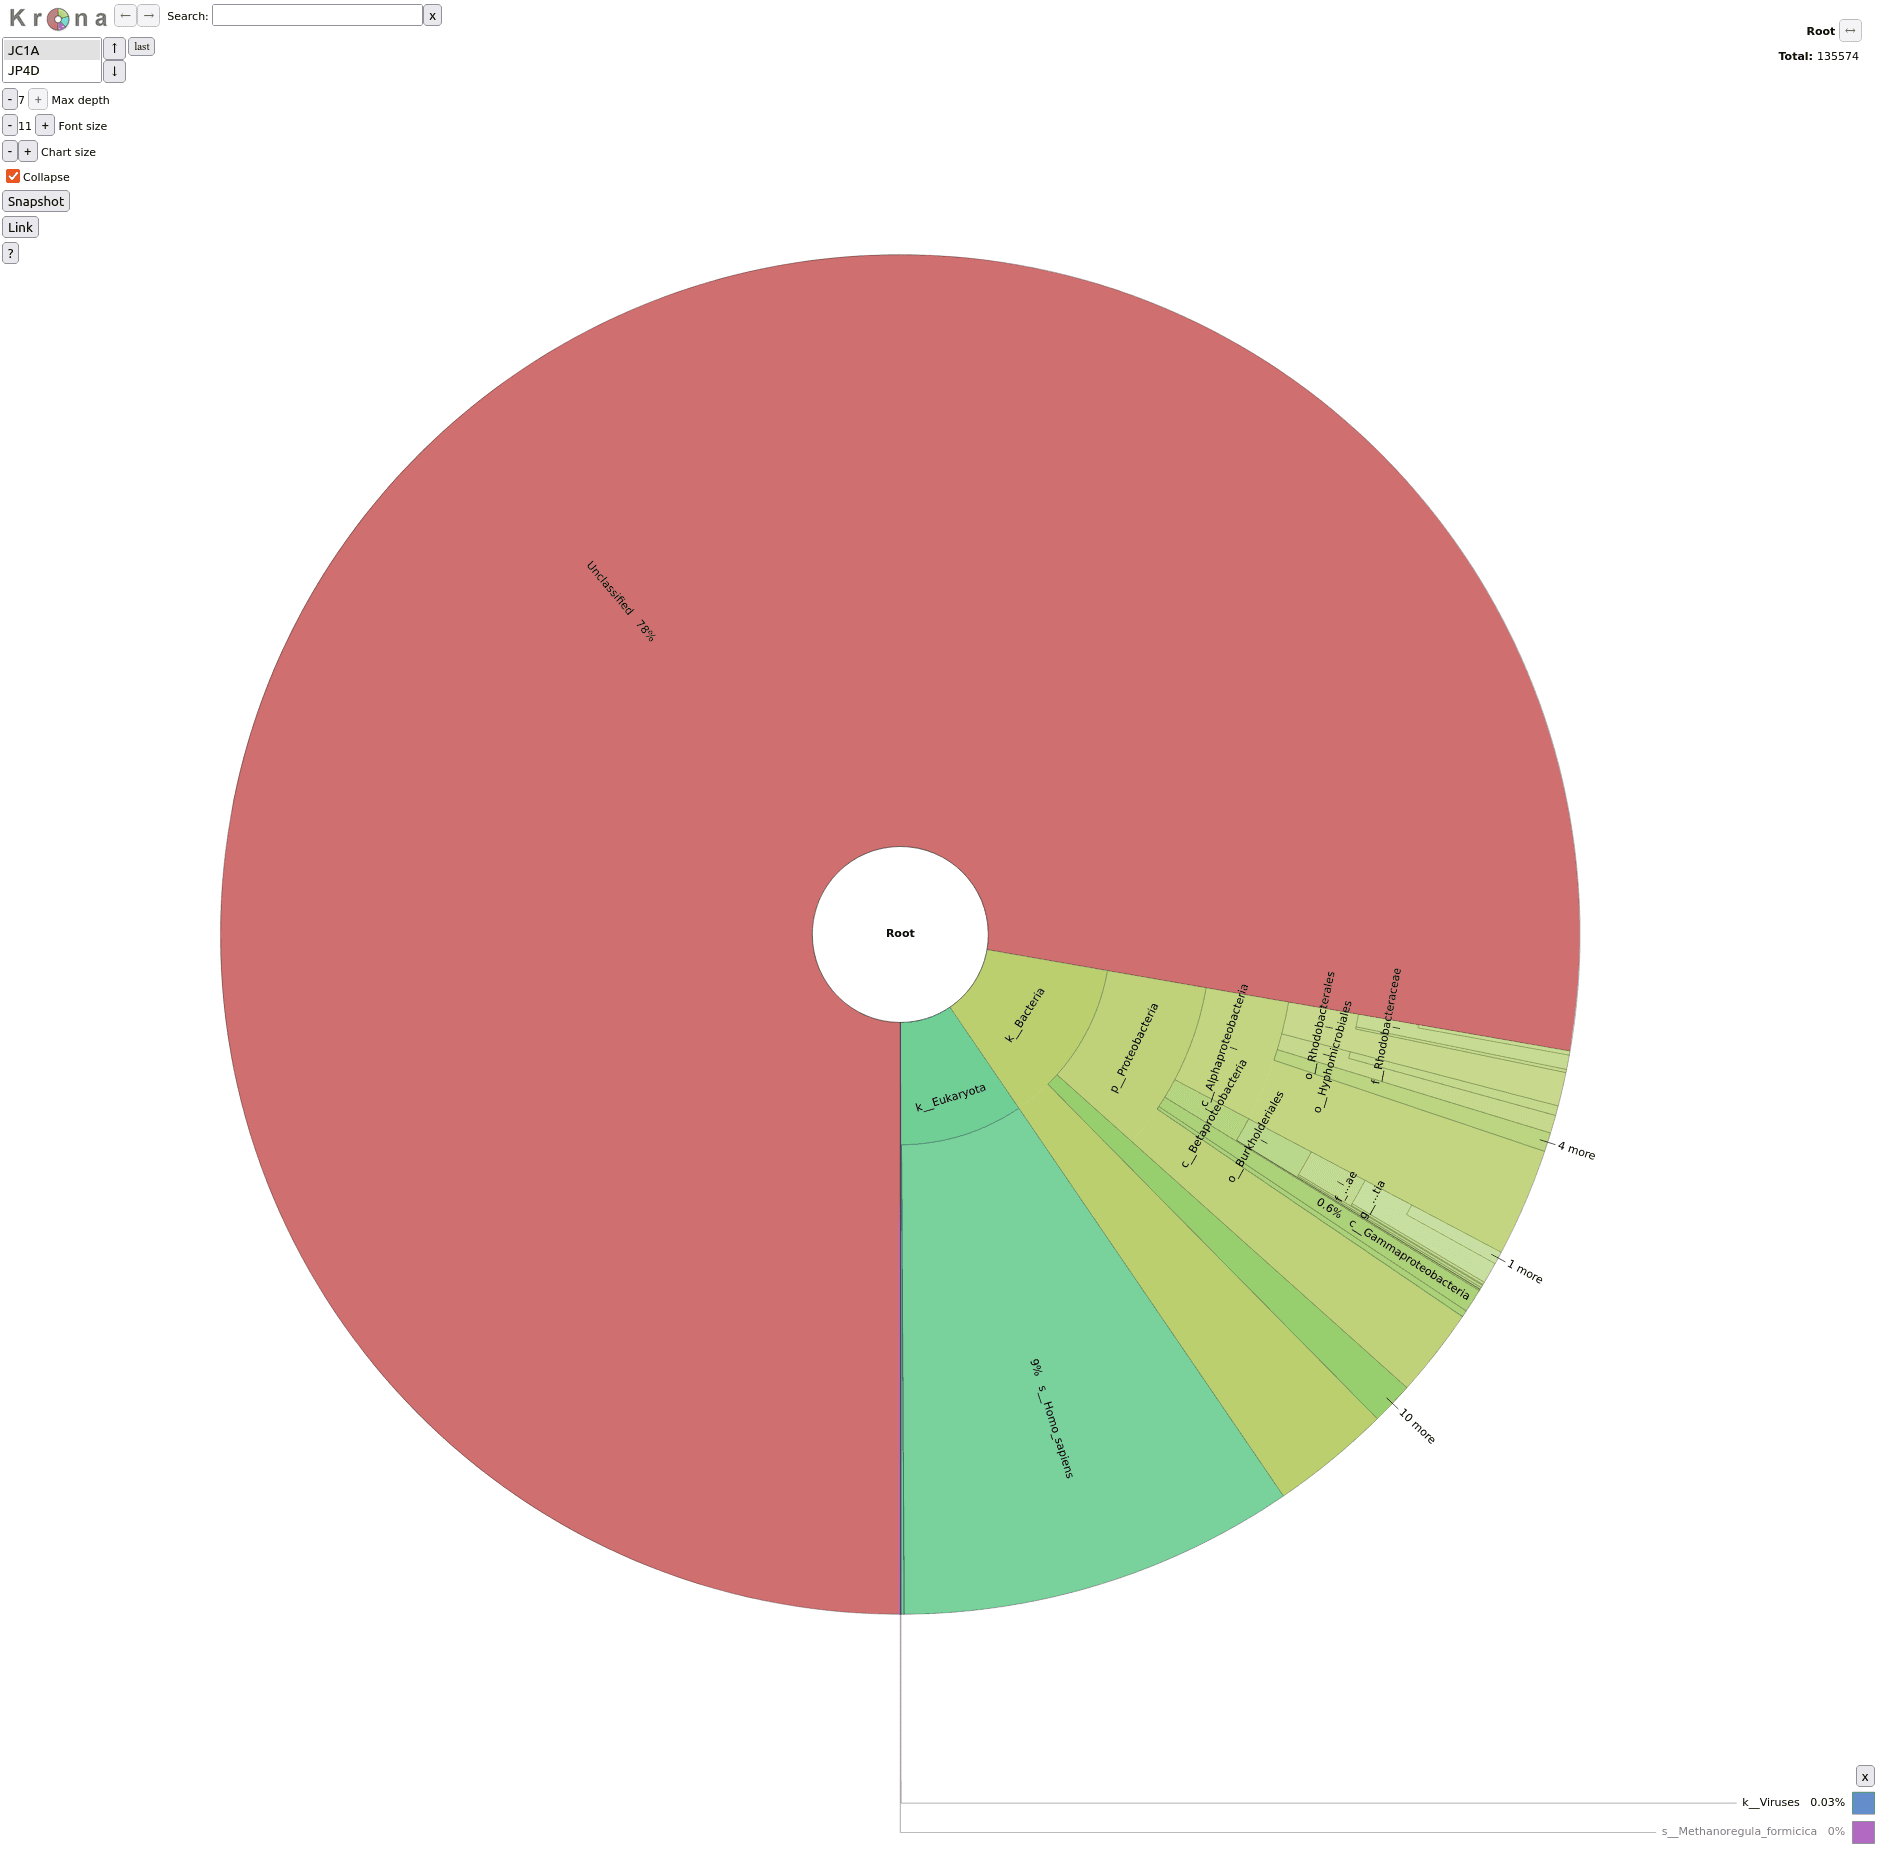
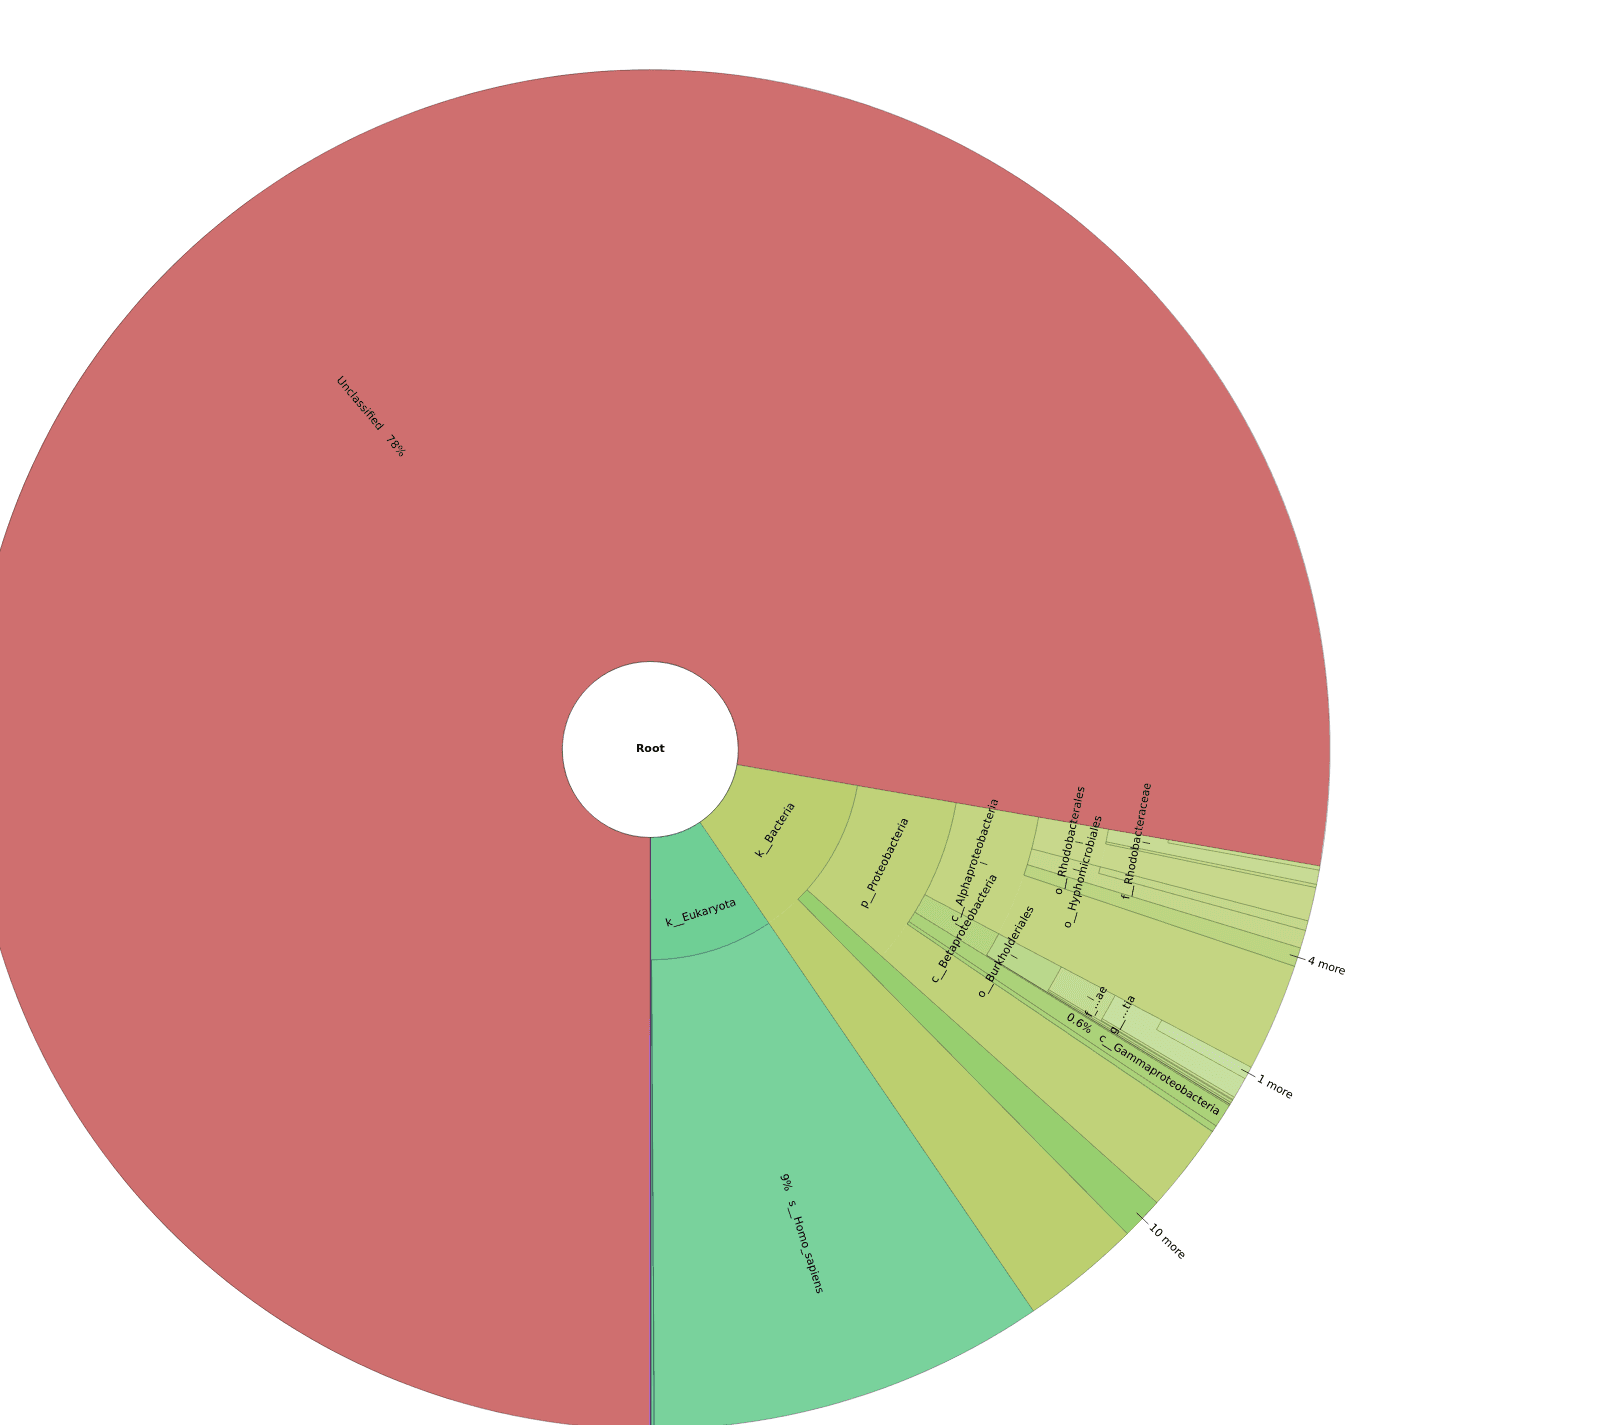
Polish deck images, beautify tables, add image credits
Image fitment: enlarge/clean the MinION hero (s15), MultiQC table (s23,
cropped to ~5 columns), mapping (s30), Krona (s56, cropped to the pie).
Replace weak images: s34 Bandage graph -> BUSCO completeness bars;
s63 empty Galaxy editor -> nf-core/rnaseq metro map.

Tables: brand.css table polish (rounded card, teal header, zebra rows,
tr.hi highlight, roomier). s25 Trimming tools + s46 count matrix converted
to styled HTML tables with the default/low-count row flagged.

Credits (both): a small per-image .src caption on every image slide, plus
a consolidated "Image credits" slide before the closer (deck now 66 slides).
Update slide-outline.md and images/CREDITS.md (drop the 2 removed images,
add BUSCO + nf-core). Render deck.html. Export folder untouched.

diff --git a/slides/theme/brand.css b/slides/theme/brand.css
@@ -93,18 +93,35 @@ blockquote {
 blockquote strong { color:var(--teal-ink); }
 
 /* ---- tables (scoped under `section` to beat the default theme) ---- */
-section table { border-collapse:collapse; font-size:20px; width:100%; table-layout:fixed; }
-section th, section td {
-  border:1px solid var(--surface-border); padding:8px 14px; text-align:left;
-  vertical-align:top; white-space:normal; overflow-wrap:anywhere; word-break:normal;
-  color:var(--fg);
+section table {
+  border-collapse:separate; border-spacing:0; font-size:22px; width:100%;
+  table-layout:fixed; border:1px solid var(--surface-border); border-radius:12px;
+  overflow:hidden; box-shadow:var(--shadow-card);
 }
+section th, section td {
+  border-bottom:1px solid var(--surface-border); padding:12px 18px; text-align:left;
+  vertical-align:middle; white-space:normal; overflow-wrap:anywhere; word-break:normal;
+  color:var(--fg); line-height:1.35;
+}
+section tr:last-child td { border-bottom:none; }
+/* zebra striping for readability */
+section tbody tr:nth-child(even) td { background:rgba(16,20,36,.035); }
+/* highlighted row (default tool / flagged matrix row) */
+section table tr.hi td { background:rgba(45,212,191,.16); font-weight:500; }
 section th {
-  font-family:var(--font-mono); text-transform:uppercase; letter-spacing:.05em;
-  color:var(--teal-ink); background:rgba(16,20,36,.03); font-weight:500; font-size:15px;
+  font-family:var(--font-mono); text-transform:uppercase; letter-spacing:.06em;
+  color:var(--teal-ink); background:rgba(13,148,136,.07); font-weight:600; font-size:15px;
+  border-bottom:2px solid rgba(13,148,136,.22);
 }
 /* let a leading narrow column (tool / module name) stay compact */
 section table th:first-child, section table td:first-child { width:26%; }
+
+/* ---- image source caption (tiny, muted, bottom-left margin) ---- */
+section .src {
+  position:absolute; left:72px; bottom:18px; margin:0;
+  font-family:var(--font-mono); font-size:13px; letter-spacing:.02em;
+  color:var(--muted); opacity:.85;
+}
 
 /* ---- pagination ---- */
 section::after { color:var(--muted); font-family:var(--font-mono); font-size:14px; }

diff --git a/slides/deck.md b/slides/deck.md
@@ -105,6 +105,8 @@ Design → QC → Preprocess → Core (ALIGN / ASSEMBLE) → Downstream → Inte
 ![bg right:34%](images/images_illumina/hires-miseqdx-right.jpg)
 ![bg right:34%](images/images_illumina/hires-miseq-flowcell-side.jpg)
 
+<p class="src">Illumina (vendor figures)</p>
+
 ## Illumina: the high-accuracy workhorse
 
 - Fragment → ligate P5/P7 adapters + index → bridge-amplify → **SBS** → FASTQ
@@ -118,6 +120,8 @@ Design → QC → Preprocess → Core (ALIGN / ASSEMBLE) → Downstream → Inte
 <p class="eyebrow">MODULE 0 · SBS WORKFLOW</p>
 
 ![bg right:50% fit](images/images_illumina/illumina-sbs-workflow.jpg)
+
+<p class="src">Illumina — SBS workflow</p>
 
 ## Illumina SBS: step by step
 
@@ -133,6 +137,8 @@ Design → QC → Preprocess → Core (ALIGN / ASSEMBLE) → Downstream → Inte
 <p class="eyebrow">MODULE 0 · SBS — STEP A IN DETAIL</p>
 
 ![bg right:38% fit](images/images_illumina/illumina-library-prep.jpg)
+
+<p class="src">Illumina</p>
 
 ## Library prep: adapters on every fragment
 
@@ -154,6 +160,8 @@ Design → QC → Preprocess → Core (ALIGN / ASSEMBLE) → Downstream → Inte
 
 ![bg right:30% fit](images/images_illumina/illumina-genotyping-workflow.jpg)
 
+<p class="src">Illumina — Infinium array</p>
+
 ## Illumina genotyping array: a different workflow
 
 - **BeadArray SNP genotyping — not SBS**
@@ -172,6 +180,8 @@ Design → QC → Preprocess → Core (ALIGN / ASSEMBLE) → Downstream → Inte
 
 ![bg right:36%](images/images_PacBio/pacbio-smrtcell.png)
 
+<p class="src">PacBio — SMRT Cell</p>
+
 ## PacBio HiFi: long AND accurate
 
 - Polymerase in a **ZMW** reads a circular **SMRTbell** template repeatedly → **CCS** → HiFi read
@@ -185,6 +195,8 @@ Design → QC → Preprocess → Core (ALIGN / ASSEMBLE) → Downstream → Inte
 <p class="eyebrow">MODULE 0 · HIFI IN PRACTICE</p>
 
 ![bg right:30% fit](images/images_PacBio/pacbio-revio-vega.png)
+
+<p class="src">PacBio — Revio / Vega</p>
 
 ## PacBio HiFi in practice: full-length 16S profiling
 
@@ -214,13 +226,15 @@ Design → QC → Preprocess → Core (ALIGN / ASSEMBLE) → Downstream → Inte
 
 <p class="eyebrow">MODULE 0 · ONT IN PRACTICE</p>
 
-![bg right:36% fit](images/images_MinION/minion-salmonella-hero.png)
+![bg right:38% fit](images/images_MinION/minion-salmonella-hero.png)
+
+<p class="src">Oxford Nanopore</p>
 
 ## MinION in practice: Salmonella colony → serotype same day
 
-- **Direct-from-colony**: pick colony → Rapid PCR Barcoding Kit (SQK-RPB114.24) → 24 barcoded samples → R10.4.1 flow cell
-- MinKNOW real-time HAC basecalling → EPI2ME `wf-bacterial-genomes` → Flye assembly + Medaka polish
-- Output: species ID + serotype + 7-gene MLST + AMR profile — **no DNA extraction required**
+- **Direct-from-colony**: colony → Rapid PCR Barcoding (SQK-RPB114.24) → 24 barcodes → R10.4.1 flow cell
+- MinKNOW real-time HAC basecalling → EPI2ME `wf-bacterial-genomes` → Flye + Medaka polish
+- Output: species ID + serotype + 7-gene MLST + AMR — **no DNA extraction**
 
 > This is the ASSEMBLE branch in action — the genome is reconstructed de novo.
 
@@ -299,6 +313,8 @@ Design → [QC] → [PREPROCESS] → Core → Downstream → Interpret → Repro
 
 ![bg right:42% fit](images/images_QC/FastQC_seq_qual.png)
 
+<p class="src">FastQC · Babraham Bioinformatics (GPL)</p>
+
 ## FastQC: the metrics that matter
 
 - Per-base quality · adapter content · overrepresented seqs · duplication · GC
@@ -309,7 +325,9 @@ Design → [QC] → [PREPROCESS] → Core → Downstream → Interpret → Repro
 
 ---
 
-![bg right:48% fit](images/images_QC/multiqc_overview.png)
+![bg right:52% fit](images/images_QC/multiqc_overview.png)
+
+<p class="src">MultiQC example report · GPLv3</p>
 
 ## MultiQC: aggregate & spot the outlier
 
@@ -323,6 +341,8 @@ Design → [QC] → [PREPROCESS] → Core → Downstream → Interpret → Repro
 <p class="eyebrow">MODULE 1 · LONG-READ QC</p>
 
 ![bg right:42% fit](images/gtn/nanoplot-readlength.png)
+
+<p class="src">Nanoplot · GTN, CC-BY 4.0</p>
 
 ## Long reads need different QC tools
 
@@ -338,13 +358,16 @@ Design → [QC] → [PREPROCESS] → Core → Downstream → Interpret → Repro
 
 ## Trimming tools
 
-| Tool | Role |
-|------|------|
-| **fastp** | **default** — all-in-one: adapters, quality, length + report |
-| **Trimmomatic** | explicit / legacy, fine control |
-| **cutadapt** | adapter / primer specialist |
+<table>
+<thead><tr><th>Tool</th><th>Role</th></tr></thead>
+<tbody>
+<tr class="hi"><td><strong>fastp</strong></td><td><strong>default</strong> — all-in-one: adapters, quality, length + its own report</td></tr>
+<tr><td><strong>Trimmomatic</strong></td><td>explicit / legacy, fine-grained control</td></tr>
+<tr><td><strong>cutadapt</strong></td><td>adapter / primer specialist</td></tr>
+</tbody>
+</table>
 
-<!-- fastp = one fast pass + its own report. Show the table; default to fastp. -->
+<!-- fastp = one fast pass + its own report. Show the table; default to fastp (the tinted row). -->
 
 ---
 
@@ -394,7 +417,9 @@ Design → QC → Preprocess → [ ALIGN / ASSEMBLE ] → Downstream → Interpr
 
 ---
 
-![bg right:40% fit](images/gtn/mapping.png)
+![bg right:46% fit](images/gtn/mapping.png)
+
+<p class="src">GTN · CC-BY 4.0</p>
 
 ## Aligners
 
@@ -442,7 +467,9 @@ samtools index s.bam ; samtools flagstat s.bam
 
 ---
 
-![bg right:38% fit](images/gtn/bandage-assembly-graph.png)
+![bg right:40% fit](images/gtn/busco-assessment.png)
+
+<p class="src">BUSCO via MultiQC · GTN, CC-BY 4.0</p>
 
 ## Judging an assembly: N50 & friends
 
@@ -594,15 +621,17 @@ chr7  ...  . G   A   312  PASS   DP=54  GT:AD:DP 0/1:27,27:54
 
 ## The count matrix
 
-```
-        ctrl_1 ctrl_2 treat_1 treat_2
-GENE_A    412    388     820     795
-GENE_B      2      0       3       1
-```
+<table>
+<thead><tr><th>Gene</th><th>ctrl_1</th><th>ctrl_2</th><th>treat_1</th><th>treat_2</th></tr></thead>
+<tbody>
+<tr><td><strong>GENE_A</strong></td><td>412</td><td>388</td><td>820</td><td>795</td></tr>
+<tr class="hi"><td><strong>GENE_B</strong></td><td>2</td><td>0</td><td>3</td><td>1</td></tr>
+</tbody>
+</table>
 
-- genes × samples — **filter low-count genes** before testing
+- genes × samples — **filter low-count genes** first (e.g. the flagged **GENE_B**: noisy, no power)
 
-<!-- The convergence point: both routes end here; it's the DE input. -->
+<!-- The convergence point: both routes end here; it's the DE input. GENE_B is the low-count row you'd drop before testing. -->
 
 ---
 
@@ -628,6 +657,8 @@ GENE_B      2      0       3       1
 ---
 
 ![bg right:36% fit](images/gtn/volcanoplot.png)
+
+<p class="src">GTN · CC-BY 4.0</p>
 
 ## Multiple testing & the volcano
 
@@ -683,6 +714,8 @@ GENE_B      2      0       3       1
 
 ![bg right:40% fit](images/gtn/binning.png)
 
+<p class="src">GTN · CC-BY 4.0</p>
+
 ## Binning → MAGs
 
 - The same assembly feeds the **bacterial** side, not just viruses
@@ -714,7 +747,9 @@ GENE_B      2      0       3       1
 
 ---
 
-![bg right:38% fit](images/gtn/krona-taxonomy.png)
+![bg right:42% fit](images/gtn/krona-taxonomy.png)
+
+<p class="src">Krona · GTN, CC-BY 4.0</p>
 
 ## Taxonomy: Kraken2 + Bracken
 
@@ -767,6 +802,8 @@ GENE_B      2      0       3       1
 
 ![bg right:34% fit](images/gtn/jbrowse-variants.png)
 
+<p class="src">JBrowse · GTN, CC-BY 4.0</p>
+
 ## Visualization & stats per domain
 
 - **IGV** / **JBrowse2** (variants — strand / end / homopolymer artifacts; JBrowse2 = shareable)
@@ -805,7 +842,9 @@ GENE_B      2      0       3       1
 
 ---
 
-![bg right:40% fit](images/gtn/galaxy-workflow-editor.png)
+![bg right:46% fit](images/gtn/nfcore-rnaseq-metromap.png)
+
+<p class="src">nf-core/rnaseq · CC-BY</p>
 
 ## Workflow managers & environments
 
@@ -825,6 +864,21 @@ GENE_B      2      0       3       1
 > The reproducibility test: could you (or someone) regenerate these exact results in 2 years?
 
 <!-- Recap the skeleton one last time; point them to the hands-on lab. Close. -->
+
+---
+
+<p class="eyebrow">ATTRIBUTION</p>
+
+## Image credits
+
+- **Galaxy Training Network** diagrams — **CC-BY 4.0** (Batut et al. 2018): mapping · Nanoplot · BUSCO · volcano · binning · Krona · JBrowse
+- **nf-core/rnaseq** metro map — nf-core (CC-BY)
+- **Illumina** · **PacBio** · **Oxford Nanopore** — vendor figures & protocol, educational use
+- **FastQC** — Babraham Bioinformatics (GPL) · **MultiQC** example report — GPLv3 (Ewels et al. 2016)
+
+> Full per-image sources: `slides/images/CREDITS.md`.
+
+<!-- Attribution. GTN diagrams are CC-BY; vendor figures are third-party (educational use) — swap for openly-licensed equivalents to redistribute. -->
 
 ---
 

diff --git a/slides/slide-outline.md b/slides/slide-outline.md
@@ -255,7 +255,7 @@ Design → QC → Preprocess → [ALIGN ⟋ ASSEMBLE] → Downstream → Interpr
   = the same short+long combination Unicycler automates.
 
 **Slide 34 — Judging an assembly: N50 & friends**
-- *Image (right):* Bandage SPAdes assembly graph — long contigs + a repeat tangle (`images/gtn/bandage-assembly-graph.png`, GTN CC-BY)
+- *Image (right):* BUSCO completeness assessment — Complete / Fragmented / Missing across assemblies (`images/gtn/busco-assessment.png`, GTN CC-BY)
 - # contigs, N50 (contiguity), total length, completeness (BUSCO/CheckV)
 - Merqury (k-mer QV, reference-free), Bandage (look at the assembly graph)
 - N50 rewards length, NOT correctness → always pair with completeness
@@ -448,7 +448,7 @@ Design → QC → Preprocess → [ALIGN ⟋ ASSEMBLE] → Downstream → Interpr
 - *Speaker note:* Not a final step — the box around the whole skeleton.
 
 **Slide 63 — Workflow managers & environments**
-- *Image (right):* Galaxy workflow editor — declare a pipeline visually (`images/gtn/galaxy-workflow-editor.png`, GTN CC-BY)
+- *Image (right):* nf-core/rnaseq metro map — the pipeline as a subway diagram (`images/gtn/nfcore-rnaseq-metromap.png`, nf-core CC-BY)
 - Nextflow + nf-core (sarek=3a, rnaseq=3b, mag=3c) | Snakemake (Pythonic, file rules)
 - conda/mamba (pin versions!) + containers (Docker/Singularity/Apptainer)
 - *Speaker note:* THE punchline — everything you did by hand, nf-core runs for you; now you can
@@ -459,12 +459,23 @@ Design → QC → Preprocess → [ALIGN ⟋ ASSEMBLE] → Downstream → Interpr
 - The reproducibility test: could you/someone regenerate this in 2 years?
 - *Speaker note:* Recap the skeleton one last time; point them to the hands-on lab. Close.
 
+**Slide 65 — Image credits** *(before the closing "Thank you" slide)*
+- Galaxy Training Network diagrams — CC-BY 4.0 (Batut et al. 2018); nf-core/rnaseq — CC-BY
+- Illumina / PacBio / Oxford Nanopore — vendor figures & protocol (educational use)
+- FastQC (GPL) · MultiQC example report (GPLv3)
+- *Speaker note:* Attribution slide. Full per-image sources in `slides/images/CREDITS.md`. Vendor
+  figures are third-party; swap for openly-licensed equivalents to redistribute.
+
 ---
 
 ### Delivery notes
-- **Full survey:** all 64 slides, ~4–5 h with the checkpoint discussion beats.
-- **Focused session (~2 h):** Slides 1–35 (through Module 2) + ONE of {3a, 3b, 3c} + 59–64. Drop the
+- **Full survey:** all 65 content slides + closing slide, ~4–5 h with the checkpoint discussion beats.
+- **Focused session (~2 h):** Slides 1–35 (through Module 2) + ONE of {3a, 3b, 3c} + 59–65. Drop the
   other two domain blocks.
+- **Images & credits.** Image slides carry a small per-image source caption (`.src`) bottom-left;
+  full attribution is on the **Image credits** slide and in `slides/images/CREDITS.md`. The three
+  "tables" (Trimming tools, Mapping domains, count matrix) use the polished CSS table style
+  (zebra rows, highlighted row) from `theme/brand.css`.
 - The [skeleton] skeleton slides are your navigation anchors — never skip them; they're how the audience
   keeps orientation across a long session.
 - **Galaxy (GUI) companion.** Each module's speaker notes in `deck.md` carry a "GUI alternative (GTN)"

diff --git a/slides/images/CREDITS.md b/slides/images/CREDITS.md
@@ -12,12 +12,17 @@ community. Fetched 2026-06-28.
 |----------------------|-------|--------------------------|
 | `mapping.png` | 30 Aligners | `sequence-analysis/images/mapping/mapping.png` |
 | `nanoplot-readlength.png` | 24 Long-read QC | `sequence-analysis/images/quality-control/HistogramReadlength.png` |
-| `bandage-assembly-graph.png` | 34 Judging an assembly | `assembly/images/bandage_spades.svg` (rasterized) |
+| `busco-assessment.png` | 34 Judging an assembly | `assembly/images/denovo_assembly/busco_plot_bacillales_odb10.png` |
 | `volcanoplot.png` | 49 Multiple testing & the volcano | `transcriptomics/images/rna-seq-viz-with-volcanoplot/volcanoplot.png` |
 | `binning.png` | 53 Binning → MAGs | `microbiome/tutorials/metagenomics-binning/images/binning.png` |
 | `krona-taxonomy.png` | 56 Taxonomy | `microbiome/tutorials/taxonomic-profiling/images/krona-kraken.png` |
 | `jbrowse-variants.png` | 60 Visualization | `variant-analysis/images/jbrowse2.png` |
-| `galaxy-workflow-editor.png` | 63 Workflow managers | `galaxy-interface/images/workflow_editor_new_workflow.png` |
+
+## nf-core — CC-BY
+
+| File (`images/gtn/`) | Slide | Source / license |
+|----------------------|-------|------------------|
+| `nfcore-rnaseq-metromap.png` | 63 Workflow managers | nf-core/rnaseq metro map — <https://github.com/nf-core/rnaseq> `docs/images/nf-core-rnaseq_metro_map_grey.png` (nf-core; diagram CC-BY, pipeline MIT) |
 
 ## Tool-output screenshots
 